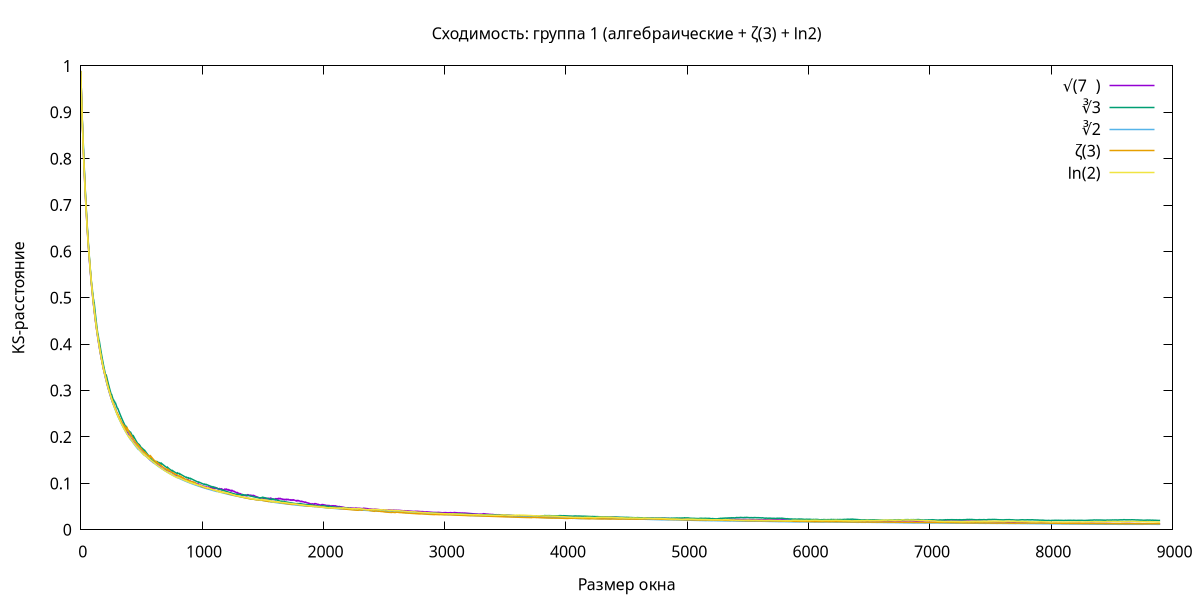
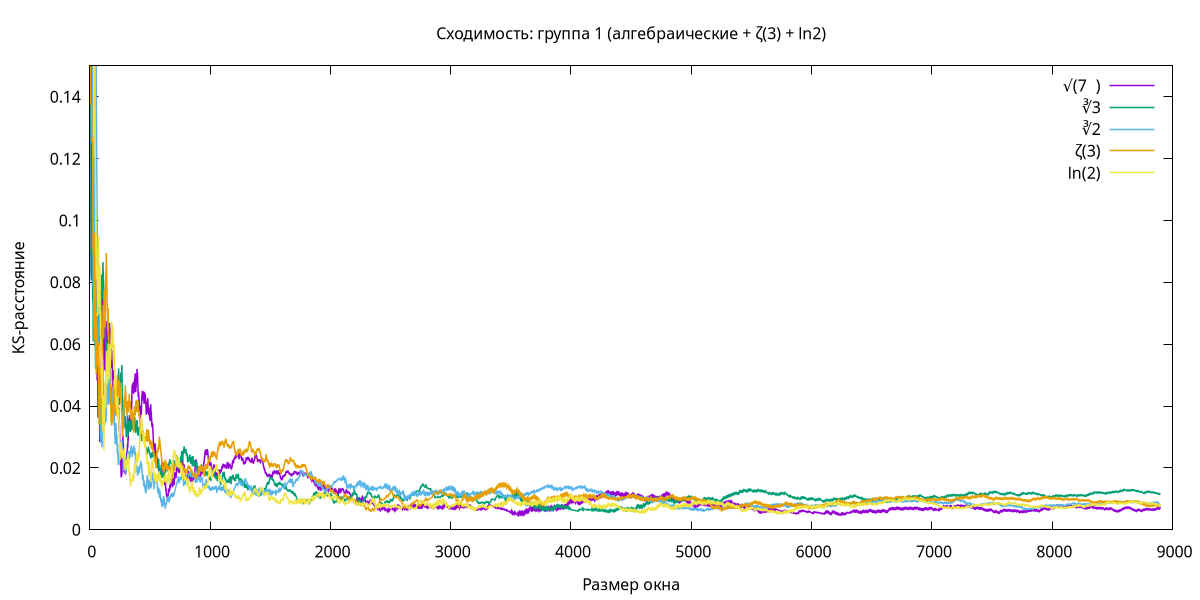
some fixes

diff --git a/README.md b/README.md
@@ -3,4 +3,4 @@
 - Small empirical study of the Gauss–Kuzmin hypothesis. Compares several irrational numbers for convergence to the Gauss–Kuzmin distribution and estimates the rate of convergence using KS-distance over sliding windows.
 
 - For more information check the docx file (Russian language):
-[Document](https://github.com/Alexandr-Dimitrov/gauss-kuzmin-research/blob/main/%D0%94%D0%B8%D0%BC%D0%B8%D1%82%D1%80%D0%BE%D0%B2%20%D0%90%D0%BB%D0%B5%D0%BA%D1%81%D0%B0%D0%BD%D0%B4%D1%80%D0%BE%D1%81%2C%20%D0%9A%D1%83%D0%BA%D1%80%D0%B5%D1%88%20%D0%9E%D0%BB%D0%B5%D0%B3%20%D0%B3%D0%B8%D0%BF%D0%BE%D1%82%D0%B5%D0%B7%D0%B0%20%D0%93%D0%B0%D1%83%D1%81%D1%81%D0%B0-%D0%9A%D1%83%D0%B7%D1%8C%D0%BC%D0%B8%D0%BD%D0%B0.docx)
+[Document](https://docs.google.com/document/d/17FJSYvsWvJnK5AqoTg8JyexWrYpO1upb/edit?usp=sharing&ouid=109881457384380476244&rtpof=true&sd=true)
